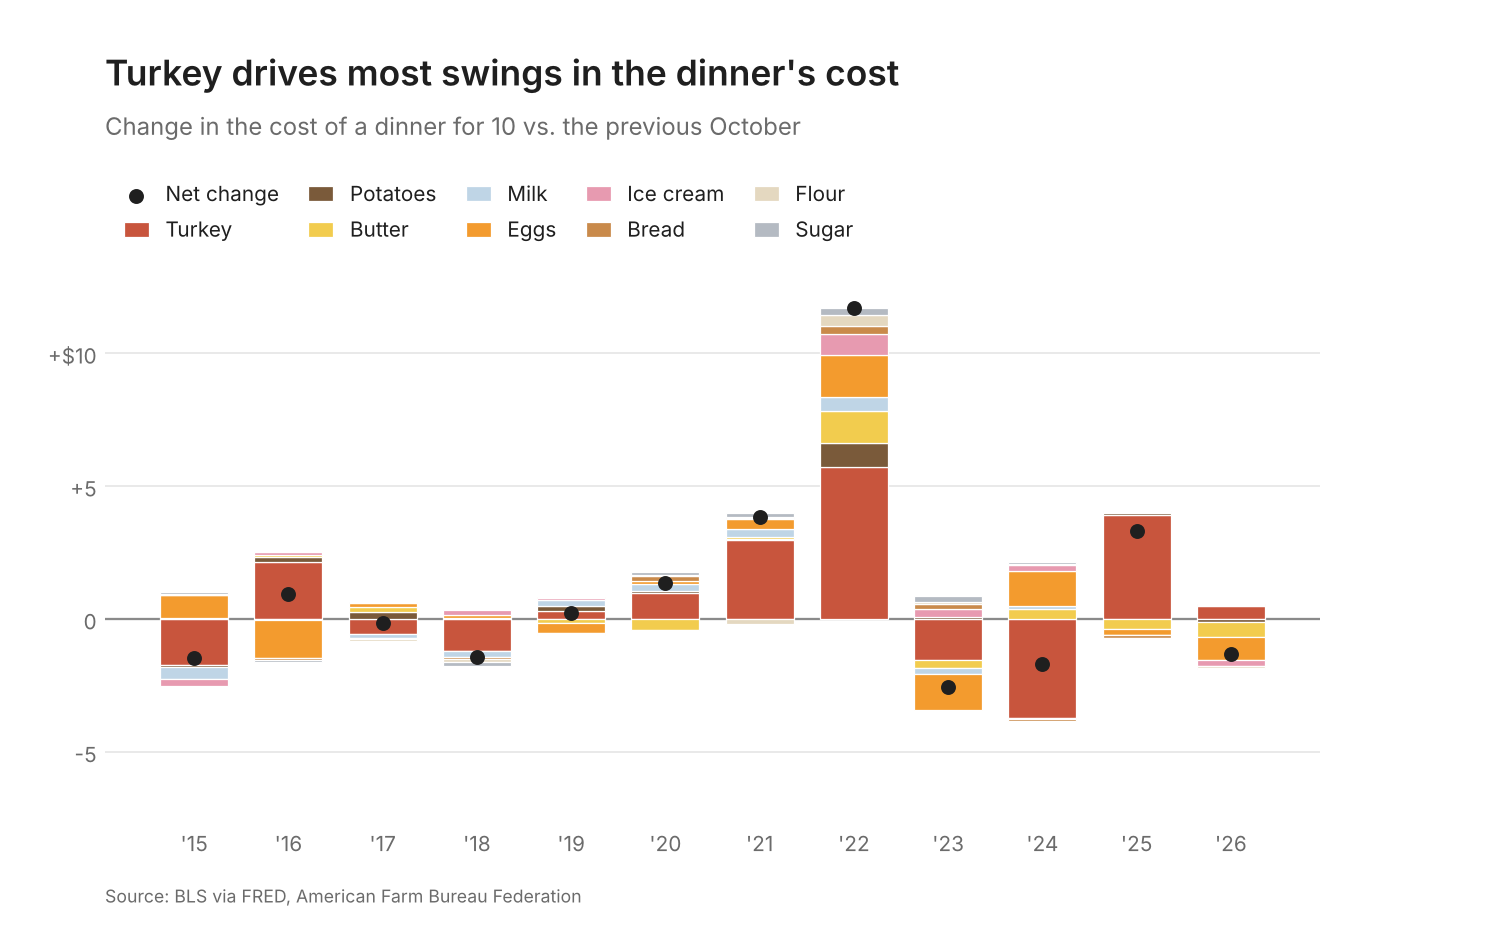
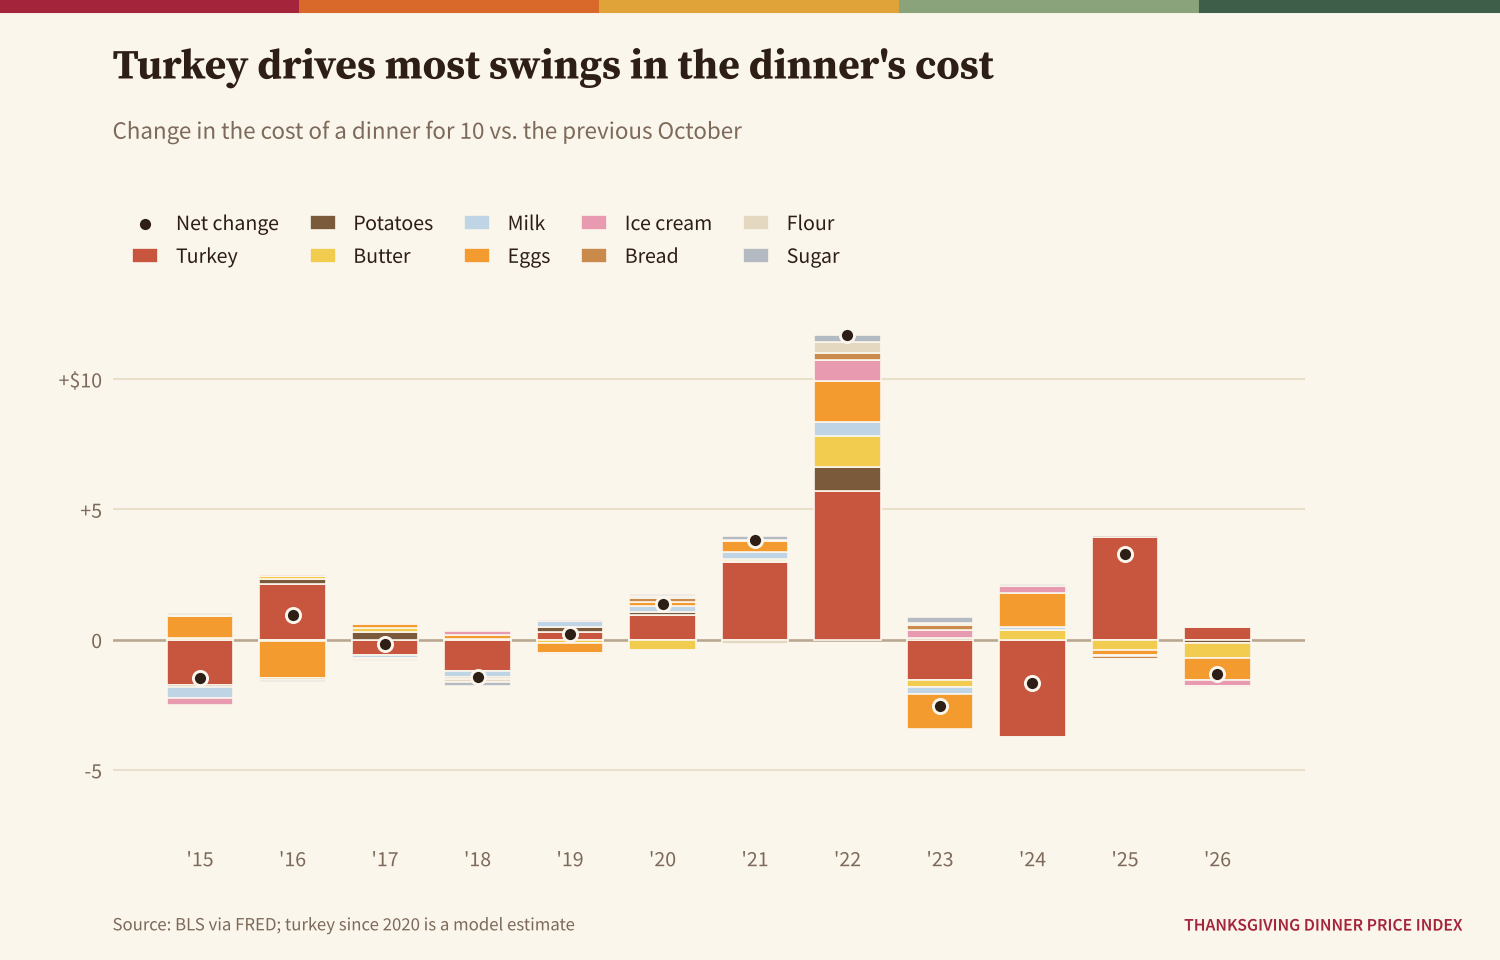
Bring the contributions chart into the Thanksgiving theme
Keeps every food color; bar edges and net-change dots now match the
cream canvas. Removes the separate clean style file.

Claude-Session: https://claude.ai/code/session_015UrztArHpAPPRd1ooHHwA1

diff --git a/build_index.py b/build_index.py
@@ -197,12 +197,11 @@ cs.finish(fig, "Since 2019, the dinner's price has risen in step with prices ove
           "Price indexes, October 2019 = 100. Groceries and all prices are CPI.",
           "BLS via FRED, American Farm Bureau Federation", OUT / "2_indexes.png")
 
-# 3. YoY contributions (kept in the earlier clean style: chart_style_clean.py)
-import chart_style_clean as csc
+# 3. YoY contributions
 # Recent years, all nine items
 recent = contrib.loc[2015:]
 # All nine items, each colored to suggest the food itself (turkey keeps the accent red)
-groups = {"Turkey": (["Turkey"], csc.RED),
+groups = {"Turkey": (["Turkey"], "#C8553D"),       # roast-turkey red
           "Potatoes": (["Potatoes"], "#7A5A3A"),      # russet skin
           "Butter": (["Butter"], "#F2CC4E"),          # butter yellow
           "Milk": (["Milk"], "#BFD5E6"),              # milk-carton blue
@@ -211,16 +210,17 @@ groups = {"Turkey": (["Turkey"], csc.RED),
           "Bread": (["Bread (stuffing)"], "#C98A4B"), # golden crust
           "Flour": (["Flour (rolls, crust)"], "#E4D8C0"), # off-white flour
           "Sugar": (["Sugar"], "#B4BAC2")}            # granulated, cool gray
-fig, ax = csc.figure()
-fig.subplots_adjust(top=0.72)
+fig, ax = cs.figure()
+fig.subplots_adjust(top=0.70)
 pos = np.zeros(len(recent)); neg = np.zeros(len(recent))
 for name, (cols, c) in groups.items():
     v = recent[cols].sum(axis=1).values
     ax.bar(recent.index, v, bottom=np.where(v >= 0, pos, neg), color=c, width=0.72, label=name, zorder=3,
-           edgecolor="white", linewidth=0.6)
+           edgecolor=cs.BG, linewidth=0.8)
     pos += np.where(v >= 0, v, 0); neg += np.where(v < 0, v, 0)
-ax.scatter(recent.index, recent.sum(axis=1), color=csc.TEXT, s=38, zorder=4, label="Net change")
-csc.baseline(ax, 0)
+ax.scatter(recent.index, recent.sum(axis=1), color=cs.TEXT, s=46, zorder=4, label="Net change",
+           edgecolor=cs.BG, linewidth=1.4)
+cs.baseline(ax, 0)
 ax.legend(ncol=5, loc="lower left", bbox_to_anchor=(0, 1.0), handlelength=1.2, columnspacing=1.4)
 from matplotlib.ticker import FuncFormatter
 ax.set_xticks(recent.index)
@@ -229,9 +229,9 @@ ax.set_yticks([-5, 0, 5, 10])
 ax.set_ylim(-7.5, 13.5)
 ax.yaxis.set_major_formatter(FuncFormatter(
     lambda v, _: "+$10" if v == 10 else ("0" if v == 0 else f"{v:+g}")))
-csc.finish(fig, "Turkey drives most swings in the dinner's cost",
+cs.finish(fig, "Turkey drives most swings in the dinner's cost",
           "Change in the cost of a dinner for 10 vs. the previous October",
-          "BLS via FRED, American Farm Bureau Federation", OUT / "3_contributions.png")
+          "BLS via FRED; turkey since 2020 is a model estimate", OUT / "3_contributions.png")
 
 # ---------------- Console report ----------------
 pd.set_option("display.width", 160)

diff --git a/chart_style.py b/chart_style.py
@@ -2,8 +2,7 @@
 headlines (Source Serif Pro) with sans-serif labels (Source Sans Pro), a thin harvest
 stripe across the top, dots at line ends and a small project mark in the footer.
 
-The fonts ship in fonts/ (SIL Open Font License) so the charts look the same anywhere.
-The item-contributions chart keeps the earlier style in chart_style_clean.py."""
+The fonts ship in fonts/ (SIL Open Font License) so the charts look the same anywhere."""
 from pathlib import Path
 
 import matplotlib.pyplot as plt

diff --git a/README.md b/README.md
@@ -35,9 +35,7 @@ backtested time-series and machine-learning models.
 and saves each console report to `output/`. A full run takes under a minute and gives
 identical results each time. Charts use a Thanksgiving theme from `chart_style.py` (autumn
 palette, Source Serif Pro headlines, Source Sans Pro labels). The fonts are bundled in
-`fonts/` under the SIL Open Font License, so charts look the same on any machine. The
-item-contributions chart (chart 3) keeps the earlier plain style from
-`chart_style_clean.py`.
+`fonts/` under the SIL Open Font License, so charts look the same on any machine.
 
 | Script | What it does | Main outputs |
 |---|---|---|
